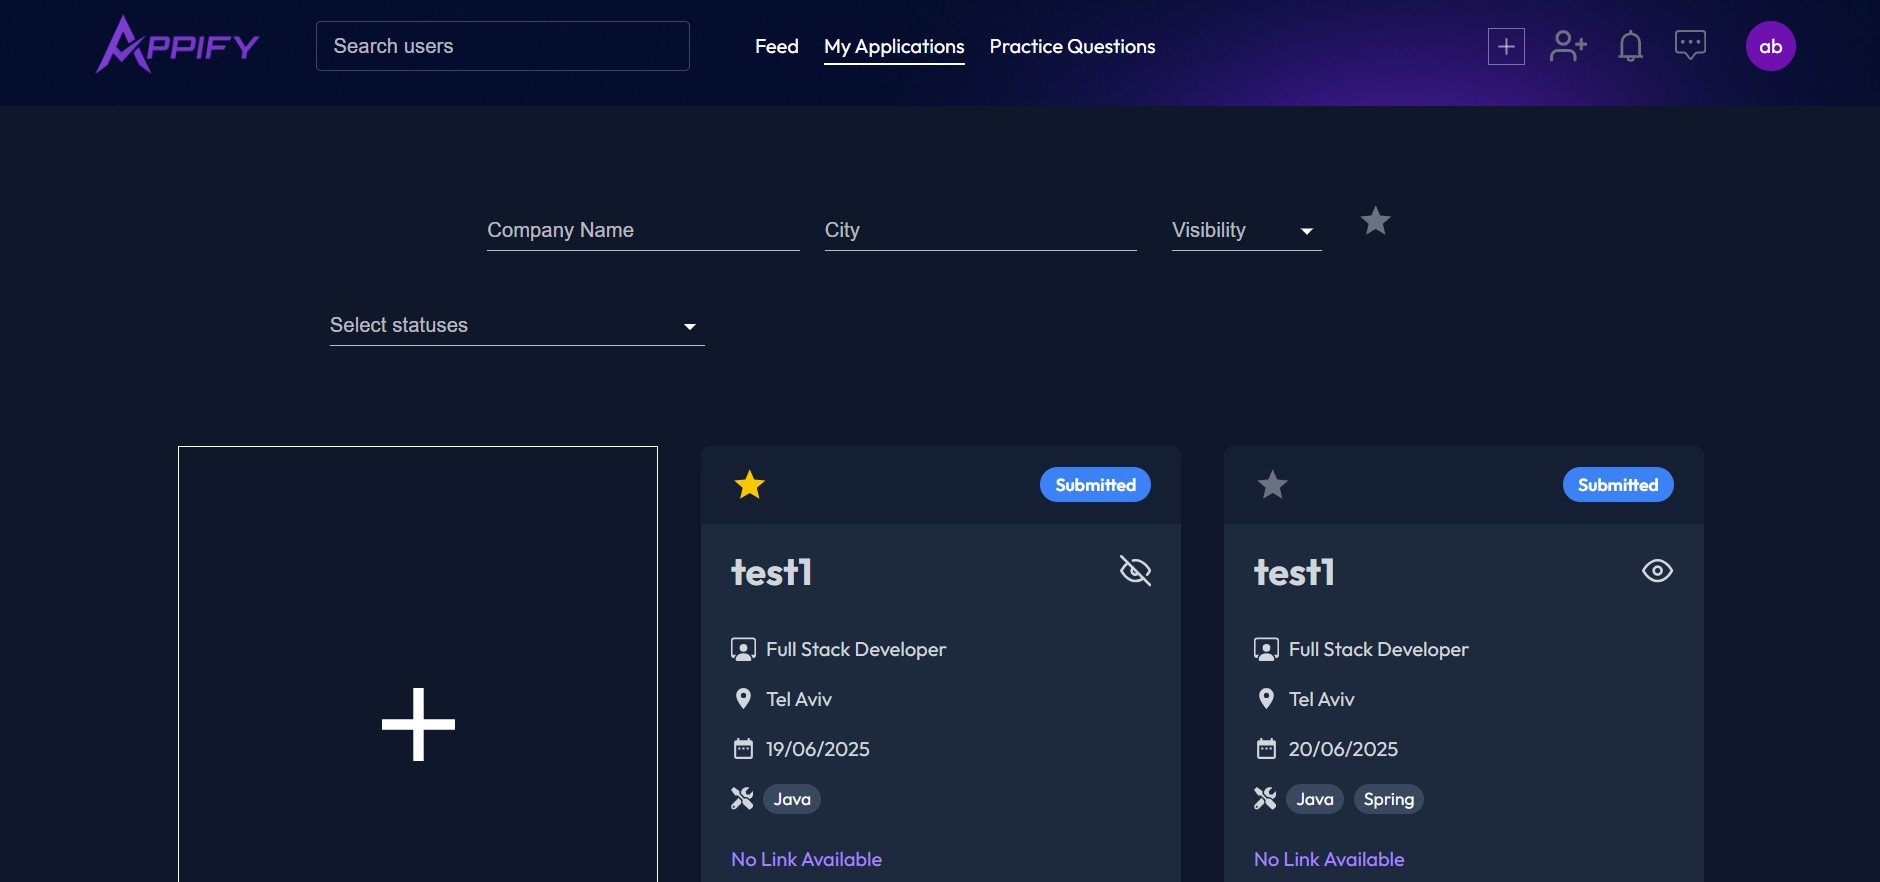
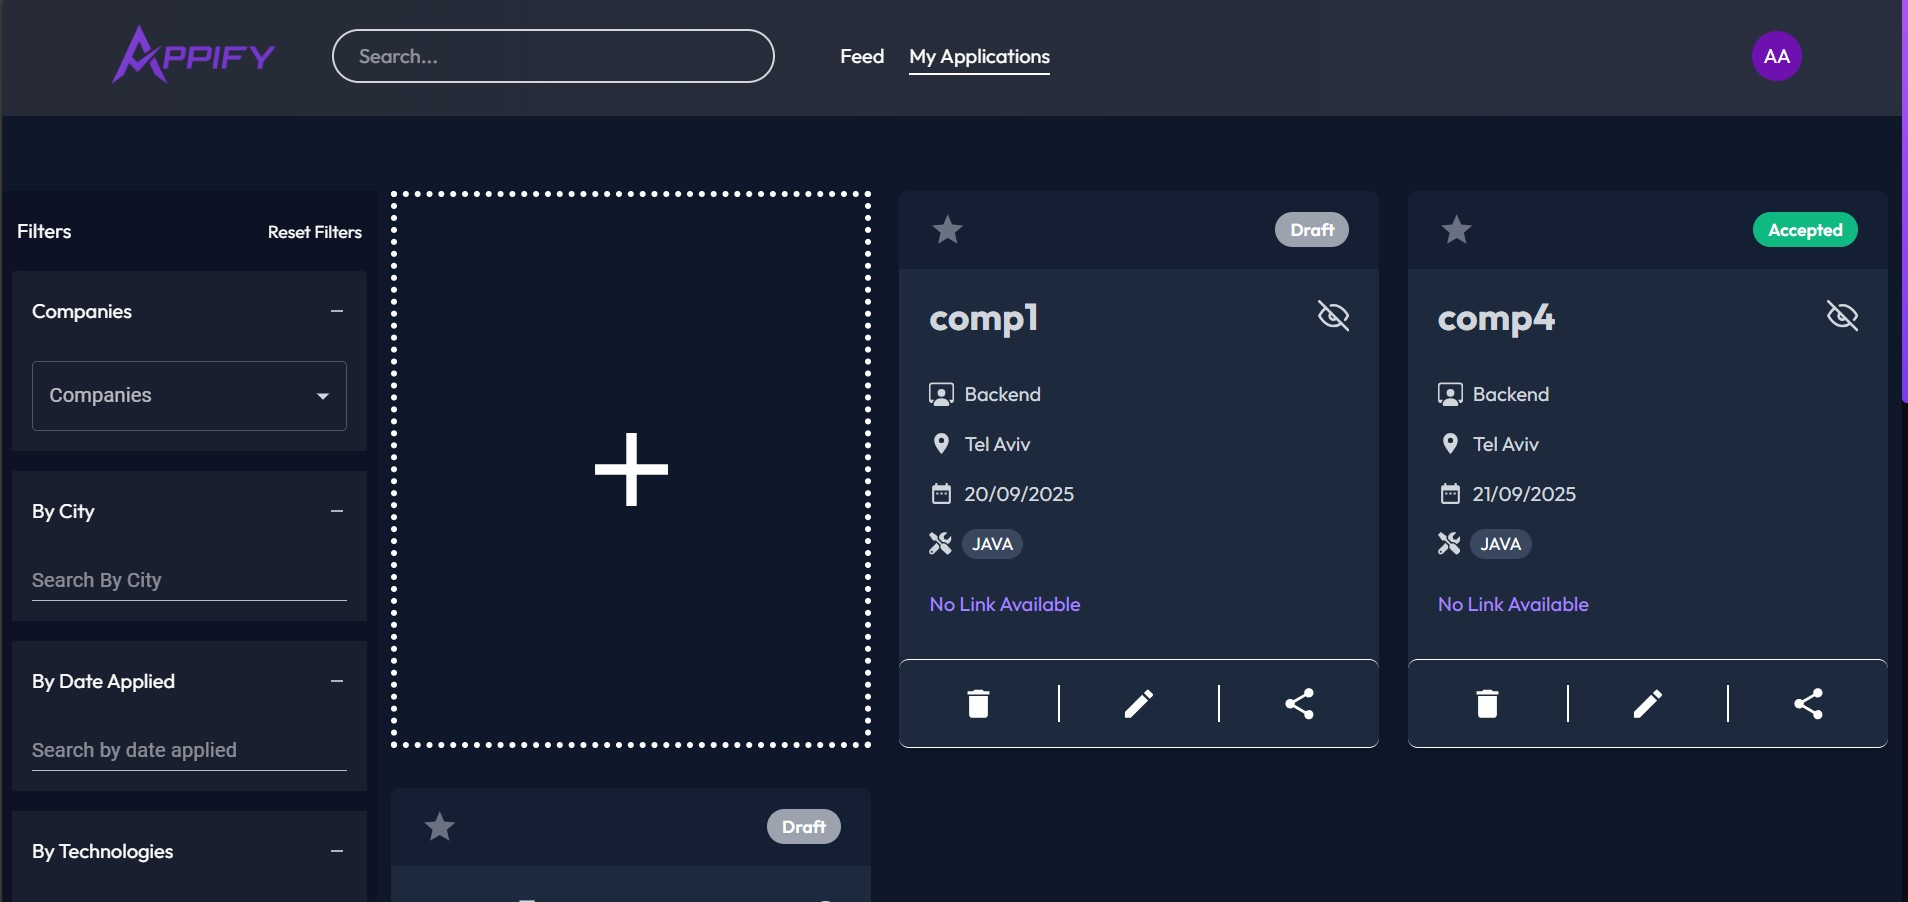
added cloud

diff --git a/src/Components/HomeArea/Skills/Skills.tsx b/src/Components/HomeArea/Skills/Skills.tsx
@@ -65,7 +65,7 @@ export function Skills(): JSX.Element {
                     viewport={{ once: true, amount: 0.2 }}
                     transition={{ duration: 0.9 }}
                 >
-                    {["backend", "database", "frontend", "tools"].map((role) => (
+                    {["backend", "database", "frontend", "tools", "cloud"].map((role) => (
                         <motion.button
                             key={role}
                             onClick={() => setActive(role as Role)}
@@ -86,7 +86,7 @@ export function Skills(): JSX.Element {
 
                 {/* Skills grid */}
                 <motion.div
-                    key={active} // helps AnimatePresence "mode=wait" below
+                    key={active} 
                     className="grid grid-cols-1 sm:grid-cols-2 lg:grid-cols-3 gap-15 sm:gap-6 w-4/5 min-h-70"
                     variants={containerVariants}
                     initial="hidden"

diff --git a/src/Datas/ProjectsData.ts b/src/Datas/ProjectsData.ts
@@ -5,7 +5,7 @@ import auraFitImage from "../assets/auraFitImage.jpg";
 // import barberShopImage from "../assets/barberShopImage.jpg";
 import portfolioImage from "../assets/porftolioWebImage.jpg";
 import socialMediaImg from "../assets/socialMediaProject.jpg";
-import grouplyImage from "../assets/grouplyImage.jpg";
+import grouplyImage from "../assets/grouply_feed.jpg";
 // import tdeeImage from "../assets/tdeeProjectImage.jpg"
 import { technologiesData } from "./TechnologiesData.ts";
 // import auraFitDemoVideo from "../../public/aurafit demo.mp4";

diff --git a/src/Datas/SkillsData.ts b/src/Datas/SkillsData.ts
@@ -1,4 +1,4 @@
-import { FaJava } from "react-icons/fa";
+import { FaAws, FaJava } from "react-icons/fa";
 import {
     SiCss3, SiDocker,
     SiHtml5,
@@ -117,9 +117,15 @@ export const skills = [
     {
         name: 'Postman',
         icon: SiPostman,
-        color: 'FF6C37',
+        color: '#FF6C37',
         role: 'tools' as Role 
     },
+    {
+        name: 'AWS - IAM, EC2, S3, Lambda ',
+        icon: FaAws,
+        color: '#FF9900',
+        role: 'cloud' as Role
+    }
     
 
 ]

diff --git a/src/Models/Skill.ts b/src/Models/Skill.ts
@@ -17,4 +17,4 @@ export class Skill {
 
 }
 
-export type Role = "backend" | "database" | "frontend" | "tools";
+export type Role = "backend" | "database" | "frontend" | "tools" | "cloud";
